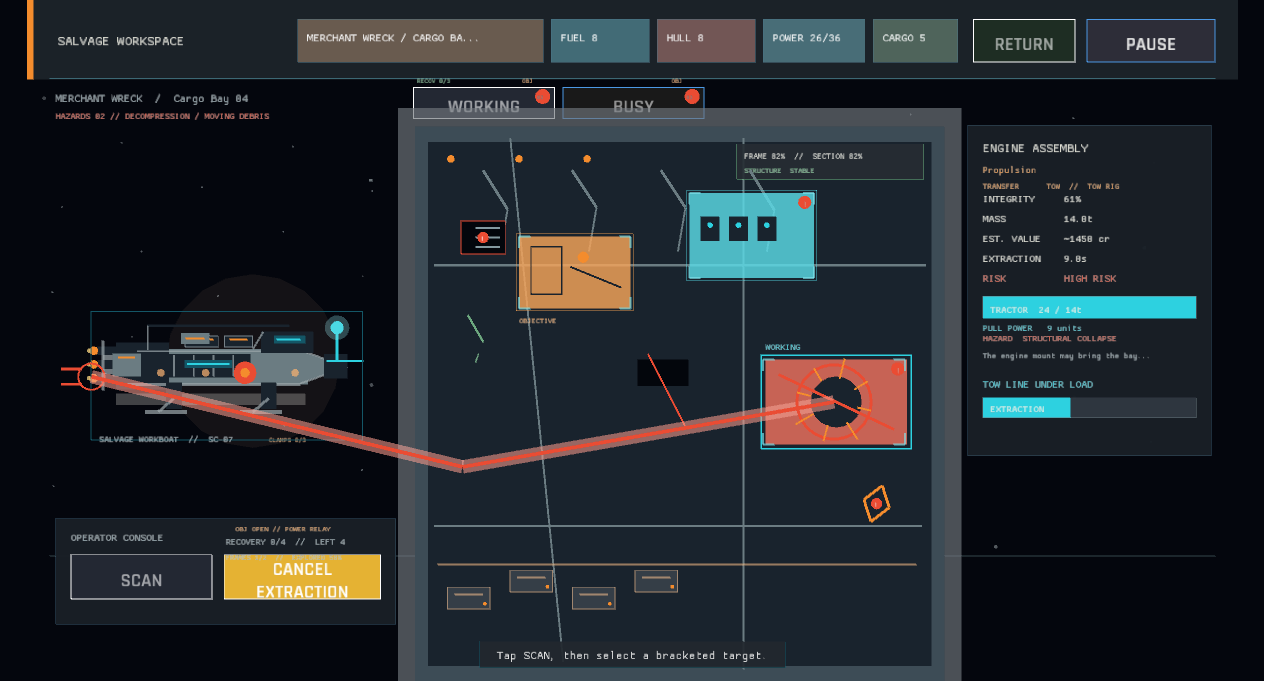
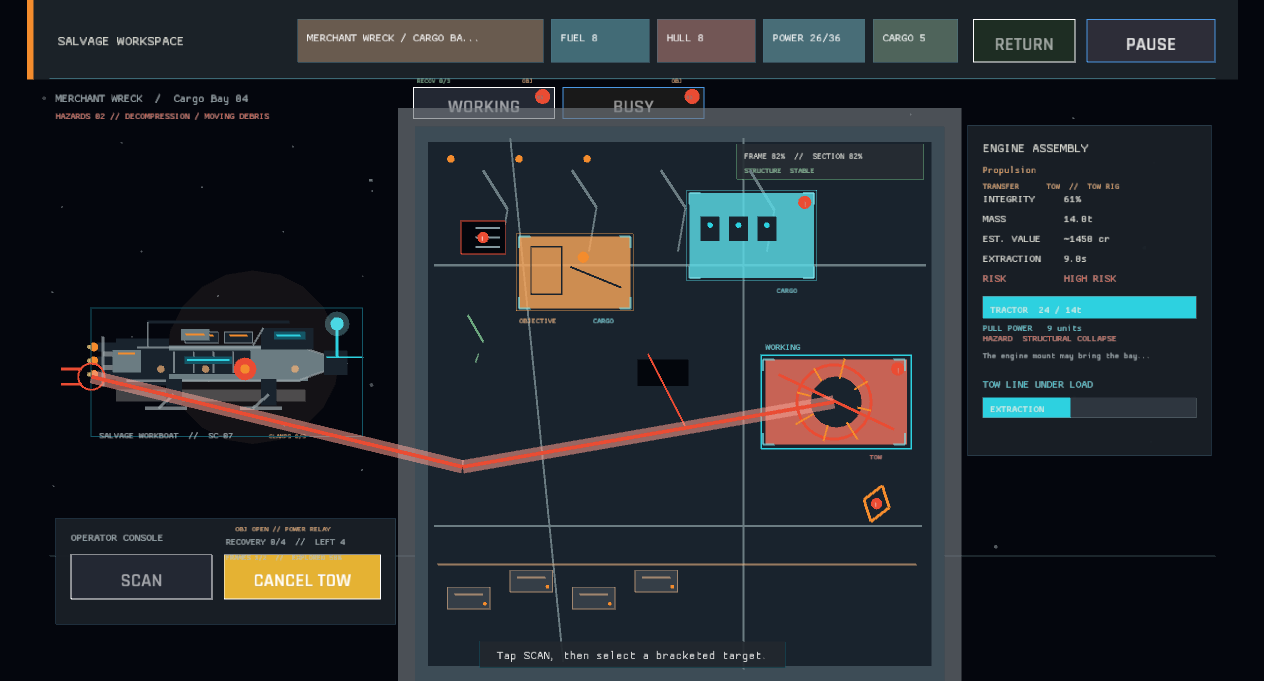
Every live pull names the line the captain can cut (transfer cancel controls)
Use route-specific cancel labels in the active salvage command panel so the visible touch control stays aligned with the Cargo, Clamp, or Tow operation in progress.

Extend the transfer vocabulary regression coverage and refresh all three active extraction captures.

Changed region(s): [[0.0617, 0.4317, 0.2777, 0.6476], [0.1851, 0.8018, 0.2777, 0.8943], [0.4628, 0.4626, 0.4937, 0.4934]]

diff --git a/src/ui/salvage_scene.rs b/src/ui/salvage_scene.rs
@@ -241,6 +241,12 @@ fn draw_command_panel(ctx: &UiContext<'_>, layout: SalvageLayout, actions: &mut 
         14.0,
         visual_theme::text_dim(),
     );
+    let cancel_label = ctx
+        .workspace_extraction_target
+        .and_then(|target_id| ctx.data.salvage_objects.get(target_id))
+        .map_or("CANCEL EXTRACTION", |target| {
+            TransferMode::from_target(target).cancel_label()
+        });
     if let Some(expedition) = &ctx.session.expedition {
         if let Some(objective) = ctx
             .session
@@ -326,7 +332,7 @@ fn draw_command_panel(ctx: &UiContext<'_>, layout: SalvageLayout, actions: &mut 
                     166.0,
                     48.0,
                 ),
-                "CANCEL EXTRACTION",
+                cancel_label,
                 true,
                 ButtonTone::Warning,
             )

diff --git a/src/state/workspace.rs b/src/state/workspace.rs
@@ -70,6 +70,14 @@ impl TransferMode {
         }
     }
 
+    pub const fn cancel_label(self) -> &'static str {
+        match self {
+            Self::InternalCargo => "CANCEL CARGO",
+            Self::ExternalClamp => "CANCEL CLAMP",
+            Self::Tow => "CANCEL TOW",
+        }
+    }
+
     pub const fn engaged_message(self) -> &'static str {
         match self {
             Self::InternalCargo => "Cargo intake engaged.",

diff --git a/src/state/workspace/tests.rs b/src/state/workspace/tests.rs
@@ -234,6 +234,7 @@ fn transfer_modes_keep_commands_and_destinations_distinct() {
         assert_eq!(mode, expected_mode);
         assert_eq!(mode.command_label(), command);
         assert_eq!(mode.destination_label(), destination);
+        assert!(mode.cancel_label().starts_with("CANCEL "));
     }
 }
 
